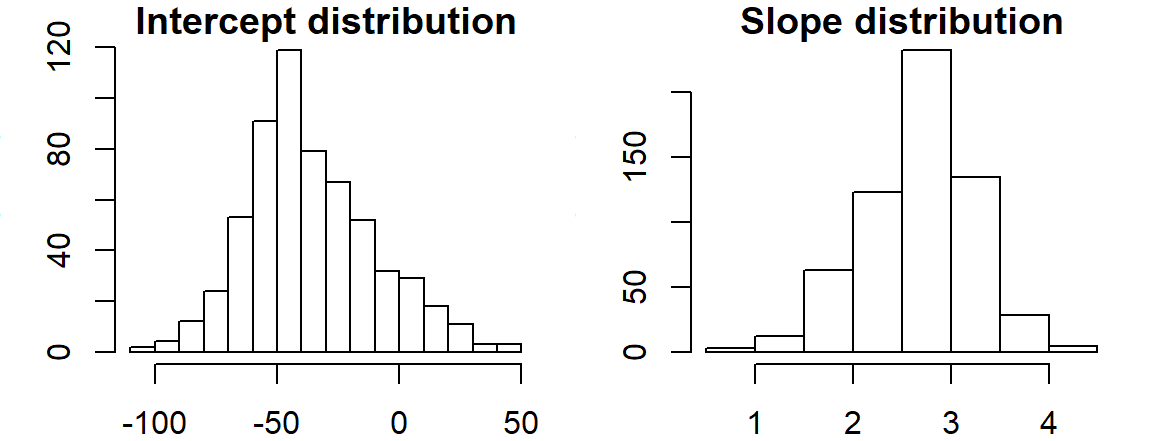
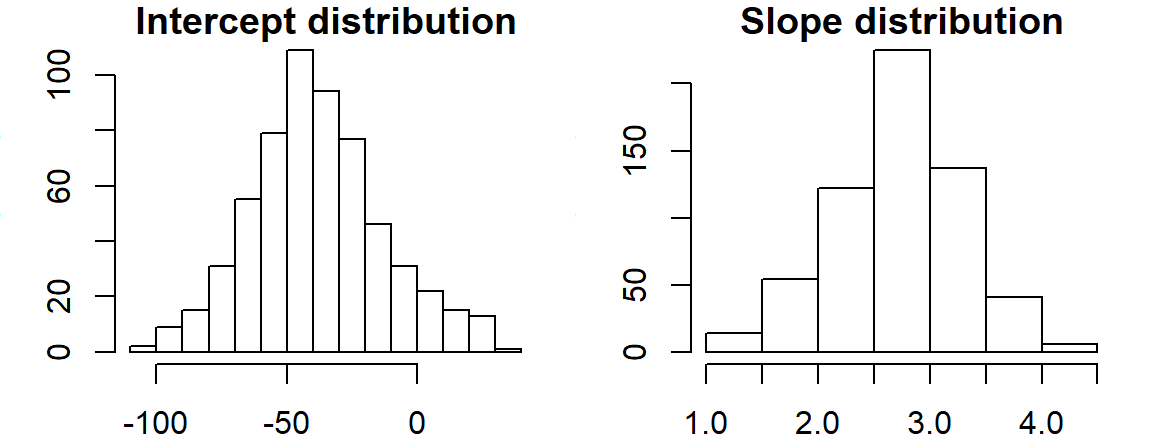
added version number

diff --git a/docs/articles/RLine.html b/docs/articles/RLine.html
@@ -260,9 +260,9 @@ bt &lt;-<span class="st"> </span><span class="kw"><a href="https://www.rdocument
 <div class="sourceCode"><pre class="sourceCode r"><code class="sourceCode r">conf &lt;-<span class="st"> </span><span class="kw"><a href="https://www.rdocumentation.org/packages/base/topics/t">t</a></span>(<span class="kw"><a href="https://www.rdocumentation.org/packages/base/topics/data.frame">data.frame</a></span>(<span class="dt">Intercept =</span> <span class="kw"><a href="https://www.rdocumentation.org/packages/stats/topics/quantile">quantile</a></span>(bt[,<span class="dv">1</span>], <span class="dt">p=</span><span class="kw"><a href="https://www.rdocumentation.org/packages/base/topics/c">c</a></span>(<span class="fl">0.05</span>,<span class="fl">0.95</span>) ),
                      <span class="dt">Slope =</span> <span class="kw"><a href="https://www.rdocumentation.org/packages/stats/topics/quantile">quantile</a></span>(bt[,<span class="dv">2</span>], <span class="dt">p=</span><span class="kw"><a href="https://www.rdocumentation.org/packages/base/topics/c">c</a></span>(<span class="fl">0.05</span>,<span class="fl">0.95</span>) )))
 conf
-<span class="co">#&gt;                    5%       95%</span>
-<span class="co">#&gt;  Intercept -74.457436 11.270689</span>
-<span class="co">#&gt;  Slope       1.667355  3.513335</span></code></pre></div>
+<span class="co">#&gt;                    5%      95%</span>
+<span class="co">#&gt;  Intercept -79.152263 9.411835</span>
+<span class="co">#&gt;  Slope       1.739261 3.606369</span></code></pre></div>
 </div>
 <div id="resampling-the-x-y-paired-values" class="section level3">
 <h3 class="hasAnchor">
@@ -285,8 +285,8 @@ bt &lt;-<span class="st"> </span><span class="kw"><a href="https://www.rdocument
                      <span class="dt">Slope =</span> <span class="kw"><a href="https://www.rdocumentation.org/packages/stats/topics/quantile">quantile</a></span>(bt[,<span class="dv">2</span>], <span class="dt">p=</span><span class="kw"><a href="https://www.rdocumentation.org/packages/base/topics/c">c</a></span>(<span class="fl">0.05</span>,<span class="fl">0.95</span>) )))
 conf
 <span class="co">#&gt;                     5%       95%</span>
-<span class="co">#&gt;  Intercept -116.523077 13.058944</span>
-<span class="co">#&gt;  Slope        1.643678  4.338462</span></code></pre></div>
+<span class="co">#&gt;  Intercept -117.173461 13.175844</span>
+<span class="co">#&gt;  Slope        1.643678  4.339945</span></code></pre></div>
 </div>
 </div>
 <div id="references" class="section level1">
@@ -299,8 +299,6 @@ conf
 <li>
 <em>Understanding robust and exploratory data analysis</em>, D.C. Hoaglin, F. Mosteller and J.W. Tukey, 1983.</li>
 </ul>
-<hr>
-<p><img src="http://i.creativecommons.org/l/by-sa/4.0/88x31.png" alt="Copyleft"> Manuel Gimond, 2017</p>
 </div>
   </div>
 

diff --git a/docs/articles/Introduction.html b/docs/articles/Introduction.html
@@ -808,8 +808,6 @@ OP &lt;-<span class="st"> </span><span class="kw"><a href="https://www.rdocument
 <li>
 <em>Exploratory Data Analysis</em>, John Tukey, 1977.</li>
 </ul>
-<hr>
-<p><img src="http://i.creativecommons.org/l/by-sa/4.0/88x31.png" alt="Copyleft"> Manuel Gimond, 2017</p>
 </div>
   </div>
 
